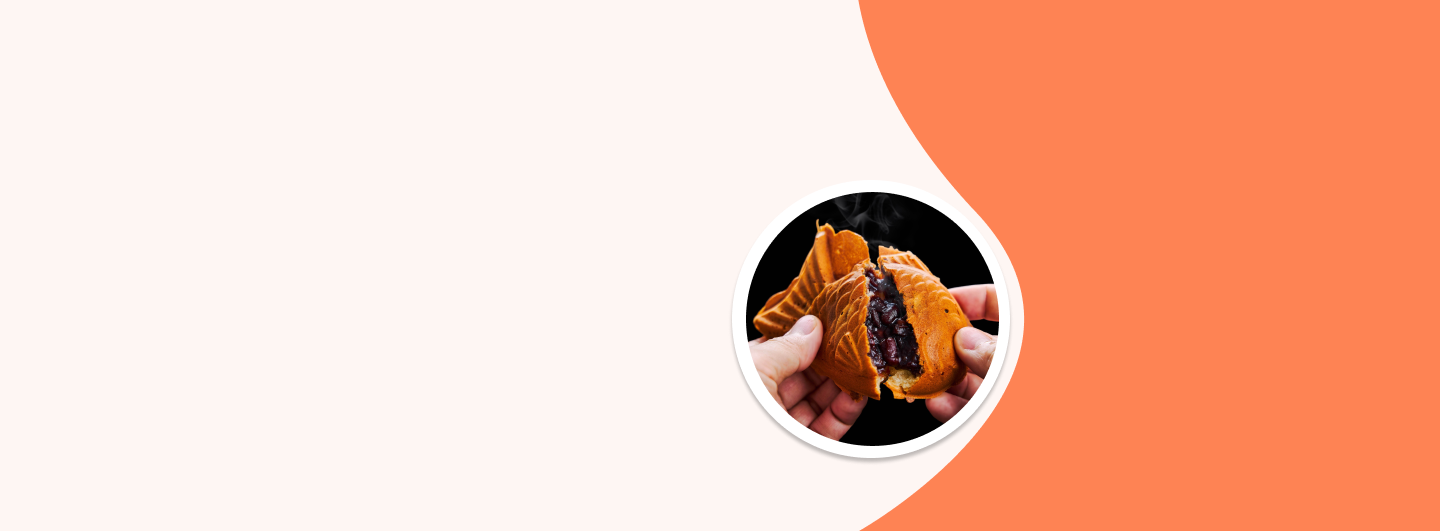
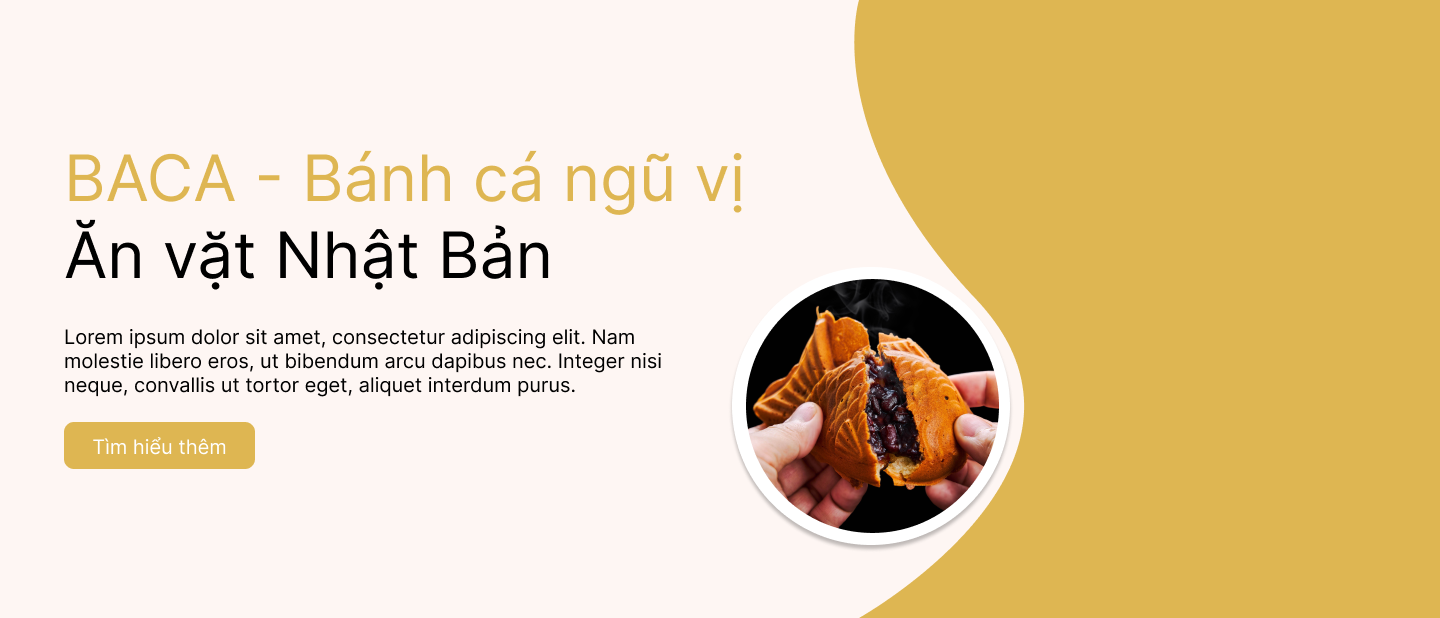
use new thumbnail

diff --git a/client/src/screens/Home.jsx b/client/src/screens/Home.jsx
@@ -2,7 +2,7 @@ import React, {
   useCallback,
   useEffect,
   useState,
-  useRef,
+  // useRef,
   useMemo,
 } from "react";
 import thumbnail from "../assets/thumbnail.png";
@@ -20,9 +20,32 @@ export default function Home() {
   const [cart, setCart] = useState(
     JSON.parse(localStorage.getItem("cart")) || []
   );
-  const headlineRef = useRef(null);
-  const thumbnailContainerRef = useRef(null);
-  const thumbnailImgRef = useRef(null);
+
+  // const headlineRef = useRef(null);
+  // const thumbnailContainerRef = useRef(null);
+  // const thumbnailImgRef = useRef(null);
+  // useEffect(() => {
+  //   const handleResize = () => {
+  //     if (headlineRef.current && thumbnailContainerRef.current) {
+  //       const newHeight = headlineRef.current.offsetHeight + 30;
+  //       const contanerWidthLongerThanImgWidth =
+  //         window.innerWidth > newHeight / thumbnailRatio;
+  //       thumbnailContainerRef.current.style.height =
+  //         contanerWidthLongerThanImgWidth ? "auto" : `calc(${newHeight}px)`;
+  //       thumbnailImgRef.current.classList = contanerWidthLongerThanImgWidth
+  //         ? "w-100"
+  //         : "h-100";
+  //     }
+  //   };
+
+  //   handleResize();
+
+  //   window.addEventListener("resize", handleResize);
+
+  //   return () => {
+  //     window.removeEventListener("resize", handleResize);
+  //   };
+  // }, [headlineRef, thumbnailContainerRef]);
 
   useEffect(() => {
     (async () => {
@@ -37,36 +60,13 @@ export default function Home() {
     })();
   }, []);
 
-  useEffect(() => {
-    const handleResize = () => {
-      if (headlineRef.current && thumbnailContainerRef.current) {
-        const newHeight = headlineRef.current.offsetHeight + 30;
-        const contanerWidthLongerThanImgWidth =
-          window.innerWidth > newHeight / thumbnailRatio;
-        thumbnailContainerRef.current.style.height =
-          contanerWidthLongerThanImgWidth ? "auto" : `calc(${newHeight}px)`;
-        thumbnailImgRef.current.classList = contanerWidthLongerThanImgWidth
-          ? "w-100"
-          : "h-100";
-      }
-    };
-
-    handleResize();
-
-    window.addEventListener("resize", handleResize);
-
-    return () => {
-      window.removeEventListener("resize", handleResize);
-    };
-  }, [headlineRef, thumbnailContainerRef]);
-
   const addItem = useCallback((id) => {}, []);
 
   return (
     <MainLayout>
       <Row>
         <Col>
-          <div
+          {/* <div
             className="pt-5 ps-5 position-absolute headline"
             ref={headlineRef}
           >
@@ -91,7 +91,8 @@ export default function Home() {
             style={{ minHeight: "200px" }}
           >
             <img src={thumbnail} alt="thumbnail" ref={thumbnailImgRef} />
-          </div>
+          </div> */}
+          <img src={thumbnail} className="w-100" />
         </Col>
       </Row>
       <Row className="px-5">

diff --git a/client/src/app/App.css b/client/src/app/App.css
@@ -1,5 +1,5 @@
 :root {
-  --text-baca: #fe8354;
+  --text-baca: #deb652;
 }
 
 .text-baca {
